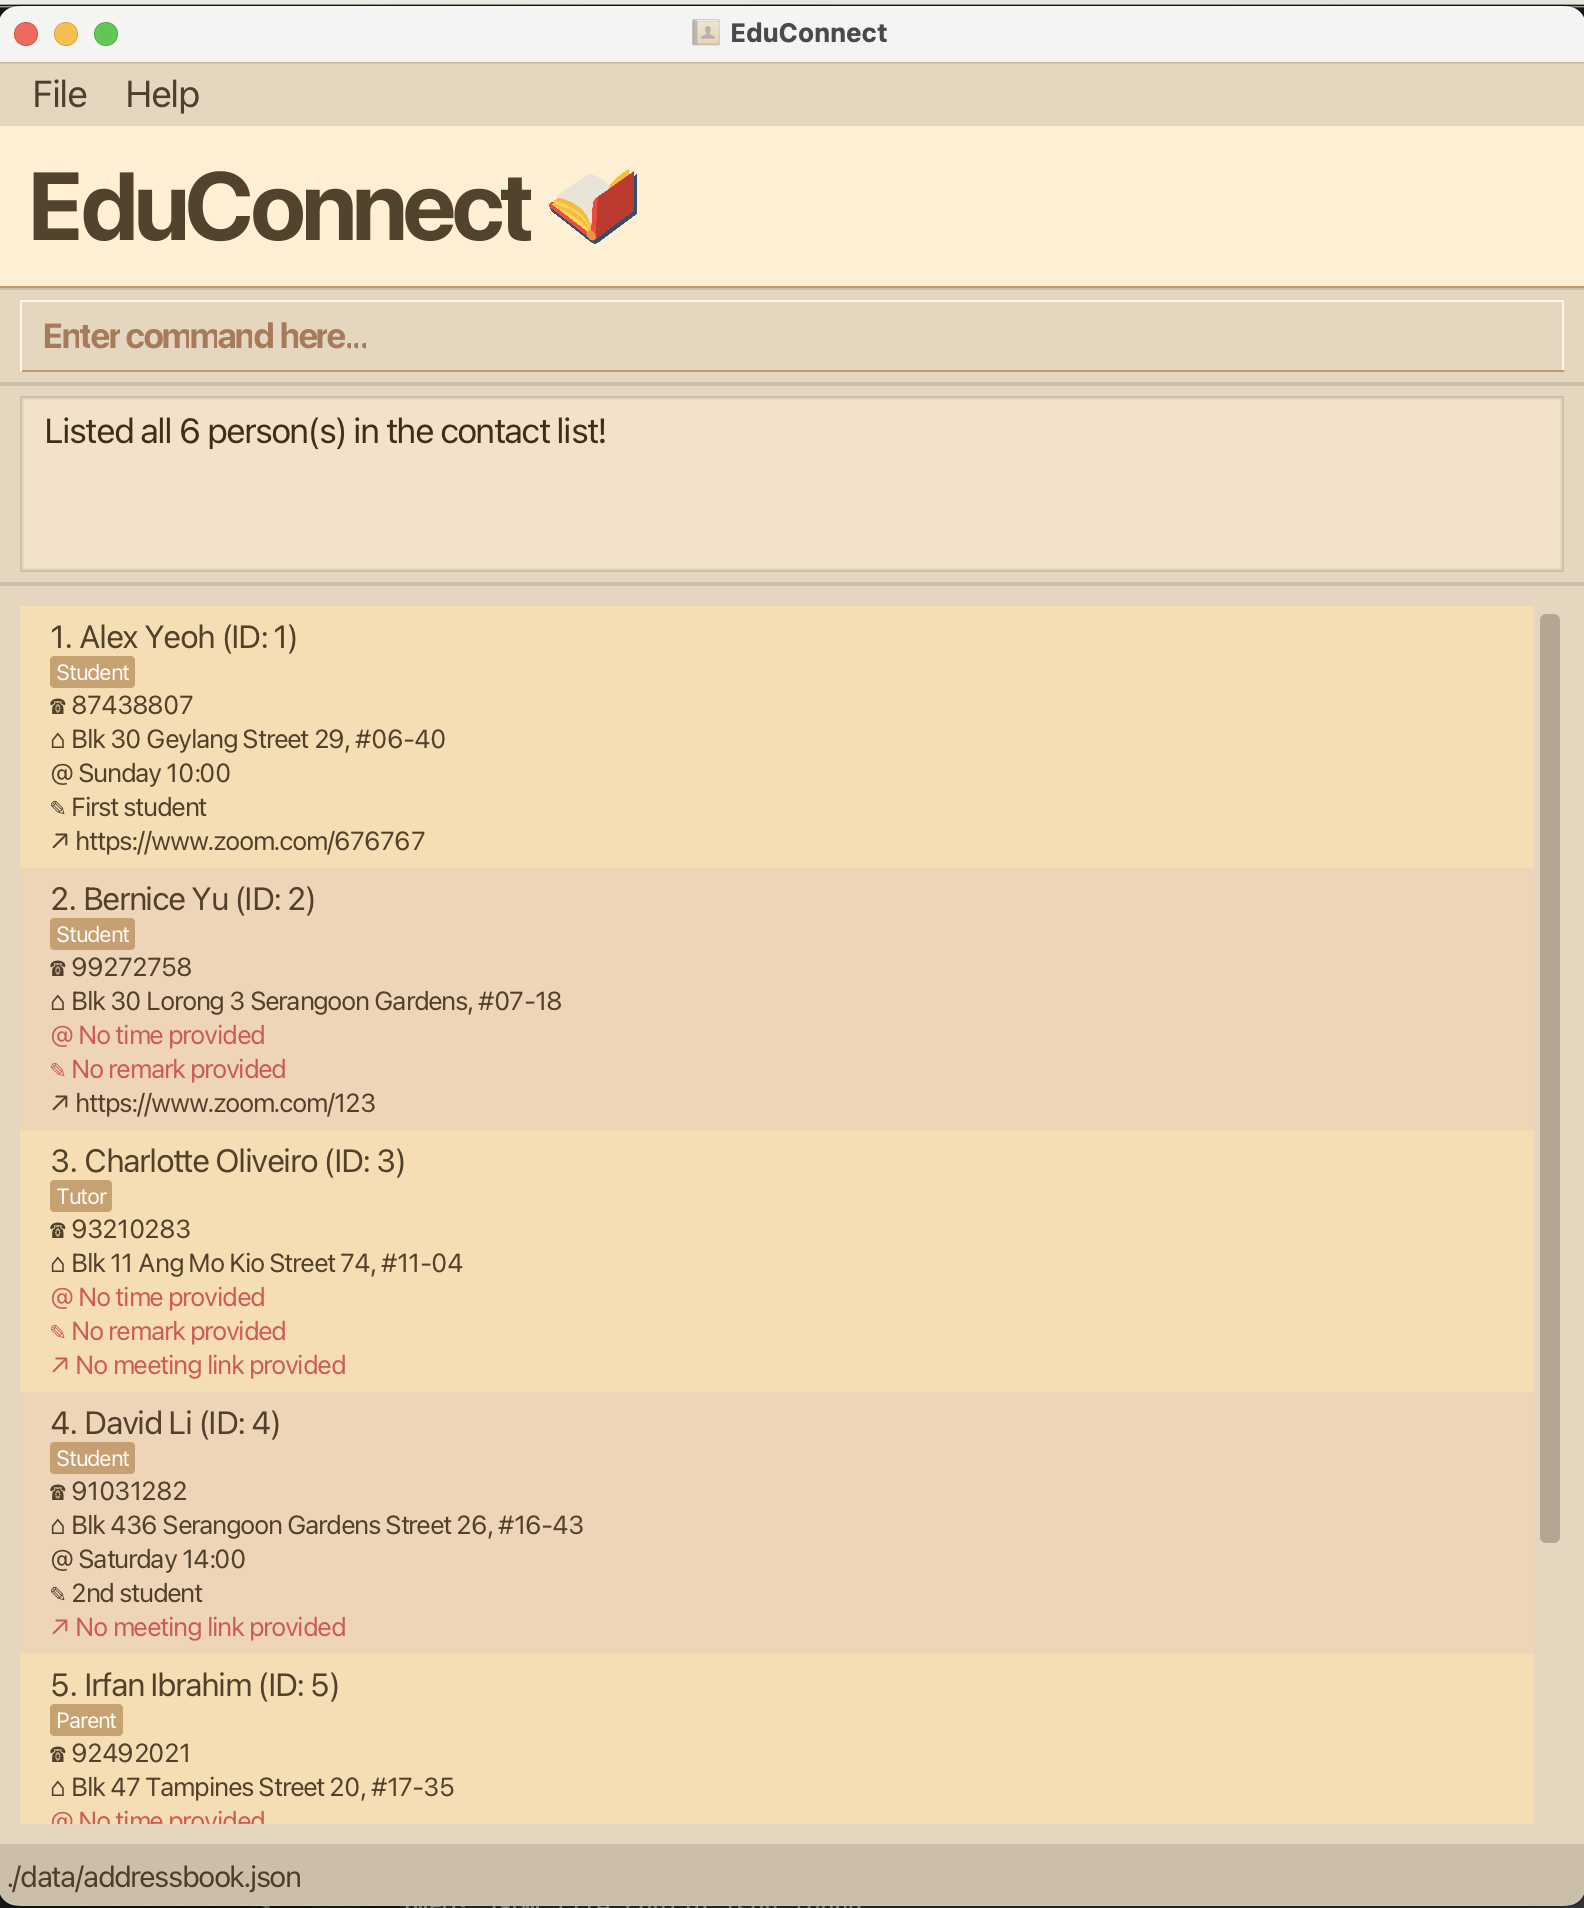
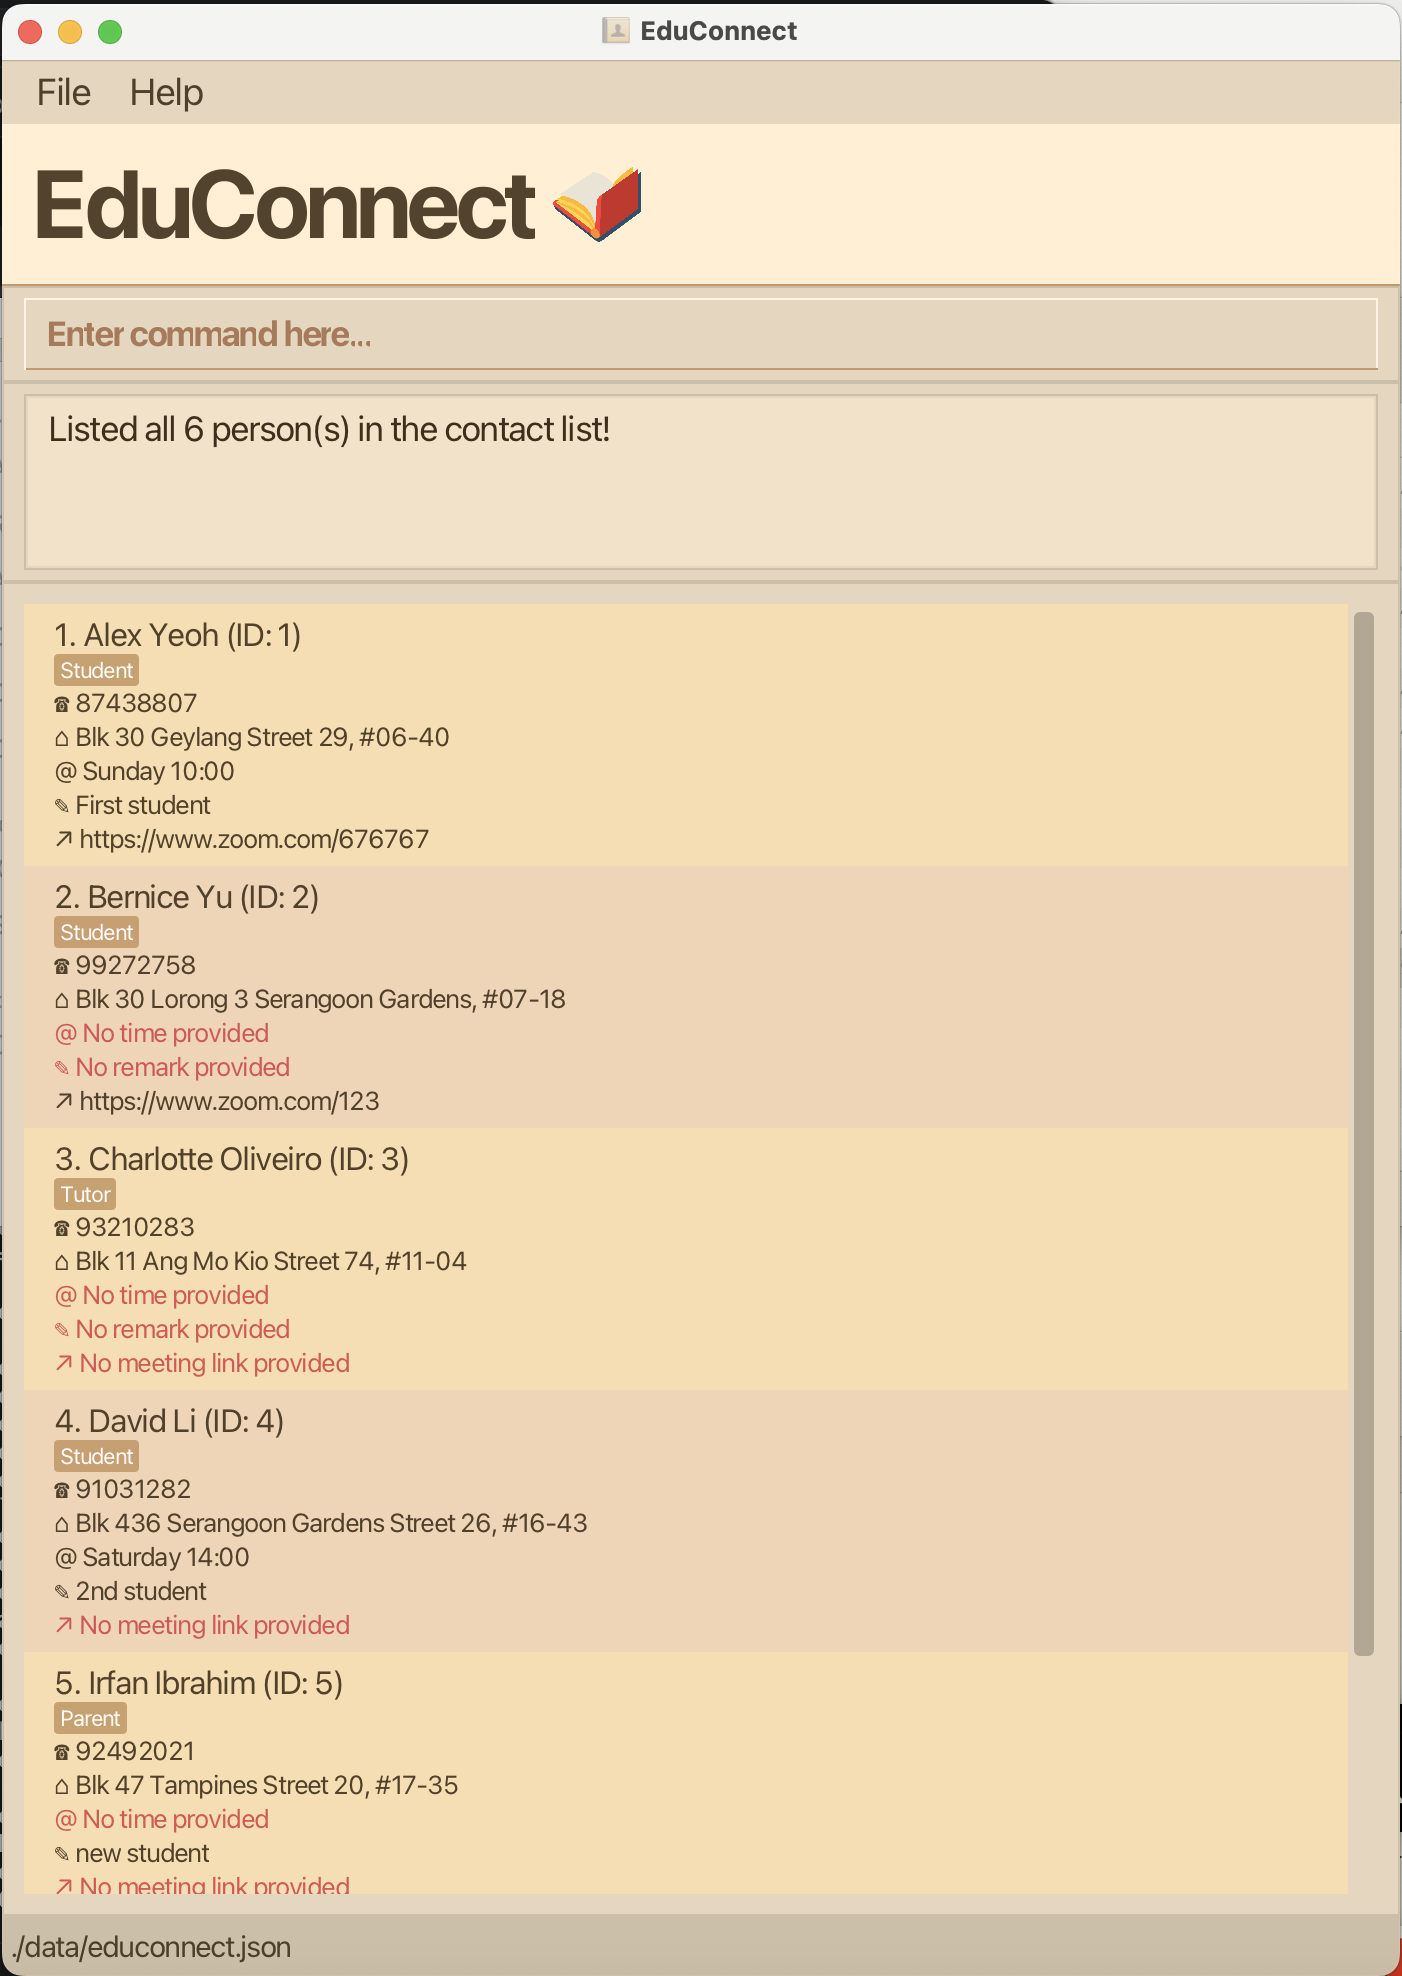
Update UserGuide screenshots

Changed region(s): [[0.0, 0.0, 1.0, 1.0], [0.276, 0.6184, 0.3374, 0.6494], [0.3067, 0.8968, 0.3374, 0.9277]]

diff --git a/docs/UserGuide.md b/docs/UserGuide.md
@@ -147,19 +147,7 @@ Examples:
 
 The first example gives the following expected output:
 
-![result for 'edit 1 p/91234567'](images/EditCommandResult1.png)
-
-The second example gives the following expected output:
-
-![result for 'edit 1 d/Monday 18:00'](images/EditCommandResult2.png)
-
-The third example gives the following expected output:
-
-![result for 'edit 1 d/Wednesday 1800 - 1930 l/https://zoom.us/j/123456789 t/Tutor tdel/Student'](images/EditCommandResult3.png)
-
-The fourth example gives the following expected output:
-
-![result for 'edit 2 t/'](images/EditCommandResult4.png)
+![result for 'edit 1 p/91234567'](images/EditCommandResult.png)
 
 Expected behavior:
 * The `edit` command succeeds even if the provided values are identical to the existing ones (i.e., no changes are made).
@@ -194,48 +182,20 @@ Weekly timeslot rules (`d/`):
 * Flexible formats (e.g., `DD:HH–DDHH` or similar variations) are allowed.
 
 Examples (Find people whose):
-* `find n/alex a/119224`: Name contains `alex` OR address contains `119224`.
+* `find n/alex a/geylang`: Name contains `alex` OR address contains `geylang`.
 * `find m/and t/student n/clement`: Tagged `Student` AND name contains `clement`.
 * `find d/1200 d/thu`: Weekly timeslot is `12:00` (or within a stored time range that includes `12:00`) or is on Thursday.
 * `find d/tue 1500-1600`: Weekly timeslot is on Tuesday and is exactly `15:00 - 16:00` (or a stored single time within that range).
 
 The first example gives the following expected output:
 
-![result for 'find n/alex a/119224'](images/FindCommandResult1.png)
-
-The second example gives the following expected output:
-
-![result for 'find m/and t/student n/clement'](images/FindCommandResult2.png)
-
-The third example gives the following expected output:
-
-![result for 'find d/1200 d/thu'](images/FindCommandResult3.png)
-
-The fourth example gives the following expected output:
-
-![result for 'find d/tue 1500-1600'](images/FindCommandResult4.png)
+![result for 'find n/alex a/geylang'](images/FindCommandResult.png)
 
 Expected behavior:
 * `find p/ben` will not return an error, but will return no results (since phone numbers contain digits only).
 * `find p/9` will not match contacts with no phone field (missing phone never matches `p/`).
 * `find d/1500-1600` will not match a person whose time is `14:00 - 17:00` (range queries require an exact stored range match).
 * `find t/best friend` will not return an error, but will return no results (as this is not a valid tag).
-
-The first expected behavior example gives the following expected output:
-
-![result for 'find p/ben'](images/FindCommandExpected1.png)
-
-The second expected behavior example gives the following expected output:
-
-![result for 'find p/9'](images/FindCommandExpected2.png)
-
-The third expected behavior example gives the following expected output:
-
-![result for 'find d/1500-1600'](images/FindCommandExpected3.png)
-
-The fourth expected behavior example gives the following expected output:
-
-![result for 'find t/best friend'](images/FindCommandExpected4.png)
 
 ### Deleting a person: `del`
 
@@ -257,23 +217,7 @@ Examples:
 
 The first example gives the following expected output:
 
-![result for 'del 2'](images/DeleteCommandResult1.png)
-
-The second example gives the following expected output:
-
-![result for 'del 1 3 5'](images/DeleteCommandResult2.png)
-
-The third example gives the following expected output:
-
-![result for 'find n/Betsy'](images/DeleteCommandResult3.png)
-
-Then, running `del 1` gives the following expected output:
-
-![result for 'del 1'](images/DeleteCommandResult4.png)
-
-The fourth example gives the following expected output:
-
-![result for 'del 1 99'](images/DeleteCommandResult5.png)
+![result for 'del 2'](images/DeleteCommandResult.png)
 
 ### Copying a person information: `copy`
 
@@ -286,7 +230,7 @@ Format: `copy ID FIELD`
 * Possible fields include `n/` for name, `p/` for phone number, `a/` for address, and `l/` for meeting link.
 * Copy is not supported for the weekly timeslot, tags, or remark fields. The `d/`, `t/`, `tdel/`, and `r/`
   fields are invalid for this command.
-* If the person's field is empty, then nothing will be copied to the clipboard.
+* If the person's field is empty, the command fails with an error message (nothing is copied to the clipboard).
 
 Examples:
 * `copy 6 n/`: Copy the name of the person with `ID` 6 to the clipboard.
@@ -294,6 +238,10 @@ Examples:
 * `copy 9 a/`: Copy the address of the person with `ID` 9 to the clipboard.
 * `copy 1 l/`: Copy the meeting link of the person with `ID` 1 to the clipboard.
 * `copy 1 p/`: Fail if `ID` 1 is not found or the phone number field of the person with `ID` 1 is empty.
+
+The fourth example gives the following expected output:
+
+![result for 'copy 1 l/'](images/CopyCommandResult.png)
 
 ### Clearing all entries: `clear`
 
@@ -310,6 +258,10 @@ Format: `clear`
 Examples:
 * `clear` then `clear` clears the address book.
 * `clear` then `list` then `clear` will show the warning again (the confirmation is reset).
+
+The first `clear` gives the following expected output:
+
+![result for 'clear'](images/ClearCommandResult1.png)
 
 ### Exiting the program: `exit`
 
